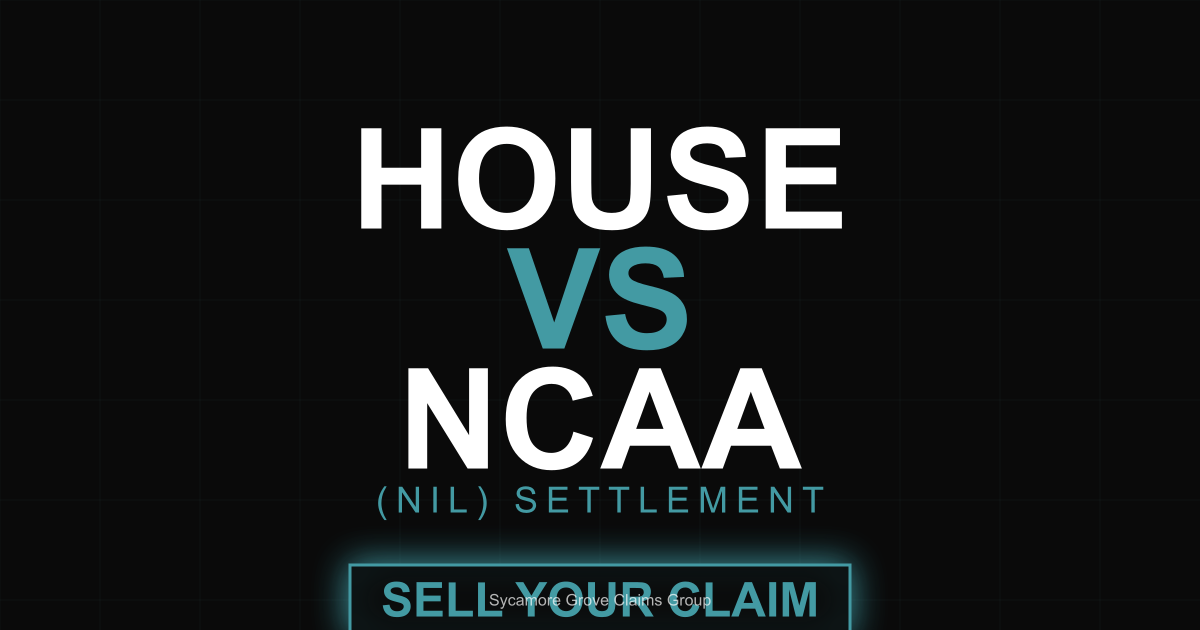
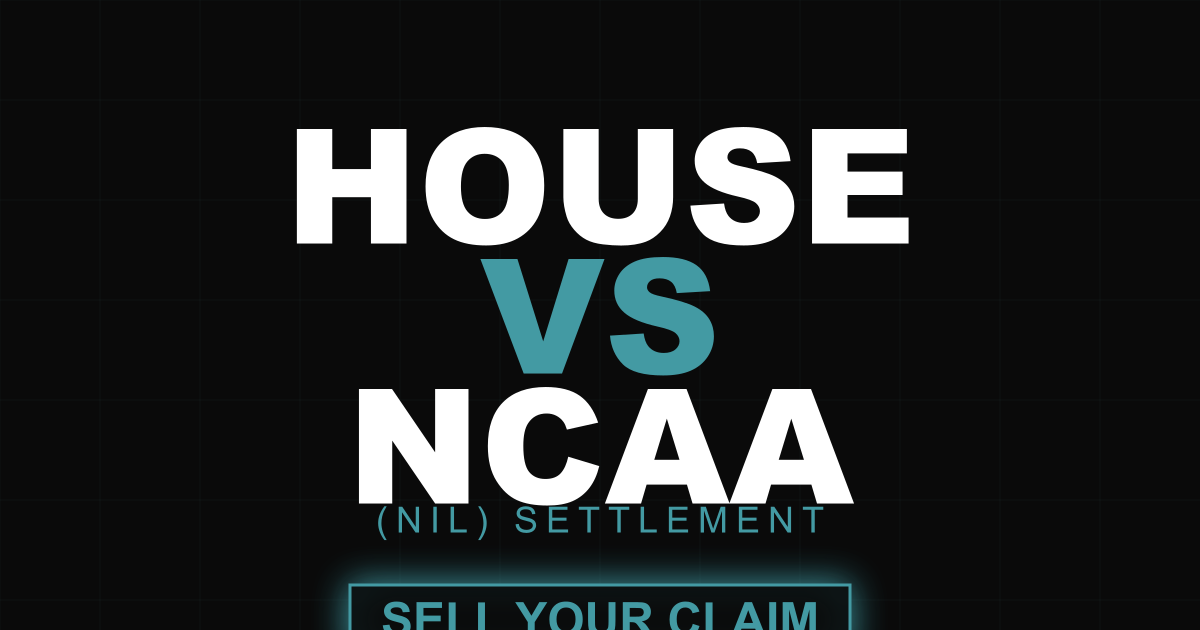
Remove branding text from OG image and improve font styling
- Removed "Sycamore Grove Claims Group" text to fix overlap issue
- Changed font to Impact for more condensed look like Bebas Neue
- Increased font size from 140px to 160px for better visibility
- Adjusted line spacing to 130px to accommodate larger text

The OG image is now cleaner and better matches the site's typography.

🤖 Generated with [Claude Code](https://claude.ai/code)

Changed region(s): [[0.2467, 0.181, 0.7708, 1.0]]

diff --git a/scripts/generate-og-image.js b/scripts/generate-og-image.js
@@ -49,20 +49,20 @@ ctx.textBaseline = 'middle';
 const centerX = width / 2;
 let currentY = 180;
 
-// HOUSE - larger size
-ctx.font = 'bold 140px Arial, sans-serif';
+// HOUSE - using condensed font style similar to Bebas Neue
+ctx.font = 'bold 160px Arial Black, Impact, sans-serif';
 ctx.fillStyle = colors.white;
 ctx.fillText('HOUSE', centerX, currentY);
 
 // VS - same size as other text, with proper spacing
-currentY += 120; // More space to prevent overlap
-ctx.font = 'bold 140px Arial, sans-serif';
+currentY += 130; // More space to prevent overlap
+ctx.font = 'bold 160px Arial Black, Impact, sans-serif';
 ctx.fillStyle = colors.teal;
 ctx.fillText('VS', centerX, currentY);
 
 // NCAA - same size as HOUSE
-currentY += 120; // Consistent spacing
-ctx.font = 'bold 140px Arial, sans-serif';
+currentY += 130; // Consistent spacing
+ctx.font = 'bold 160px Arial Black, Impact, sans-serif';
 ctx.fillStyle = colors.white;
 ctx.fillText('NCAA', centerX, currentY);
 
@@ -106,11 +106,7 @@ ctx.font = 'bold 48px Arial, sans-serif';
 ctx.fillStyle = colors.teal;
 ctx.fillText('SELL YOUR CLAIM', centerX, currentY);
 
-// Add small branding at bottom
-ctx.font = '16px Arial, sans-serif';
-ctx.fillStyle = colors.white;
-ctx.globalAlpha = 0.7;
-ctx.fillText('Sycamore Grove Claims Group', centerX, height - 30);
+// Removed Sycamore Grove Claims Group text to avoid overlap
 
 // Save the image
 const buffer = canvas.toBuffer('image/png');
